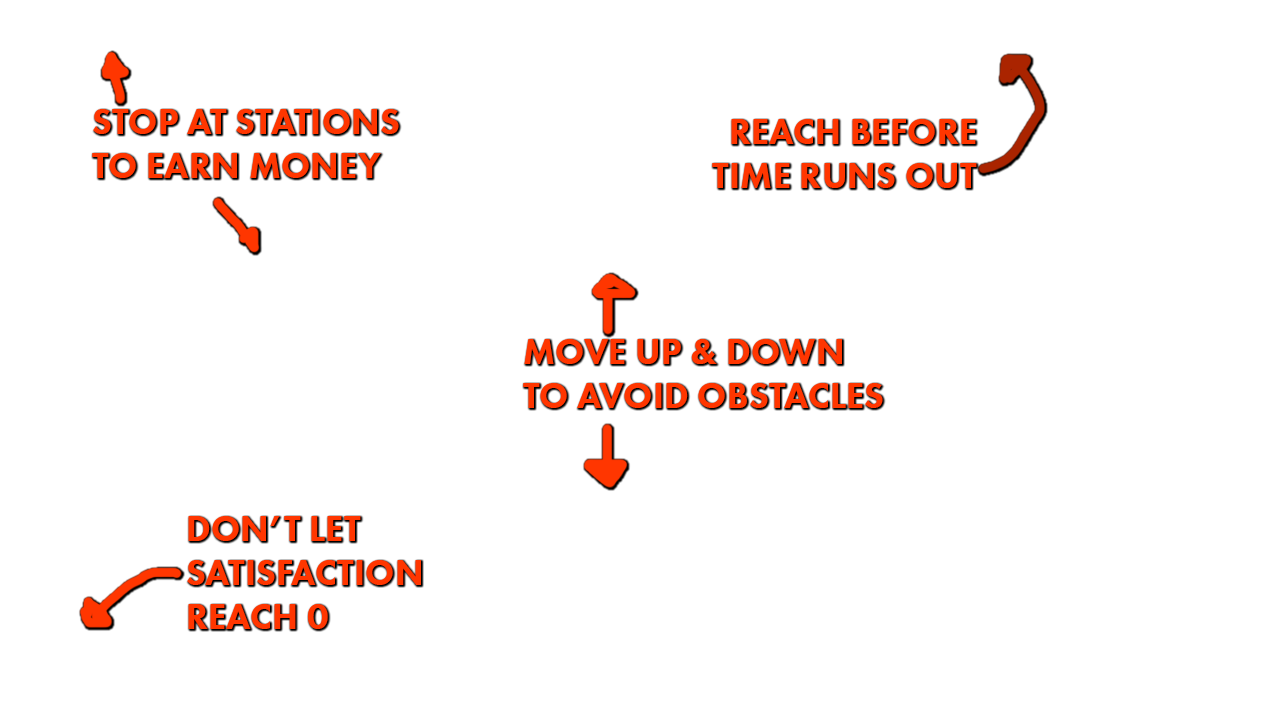
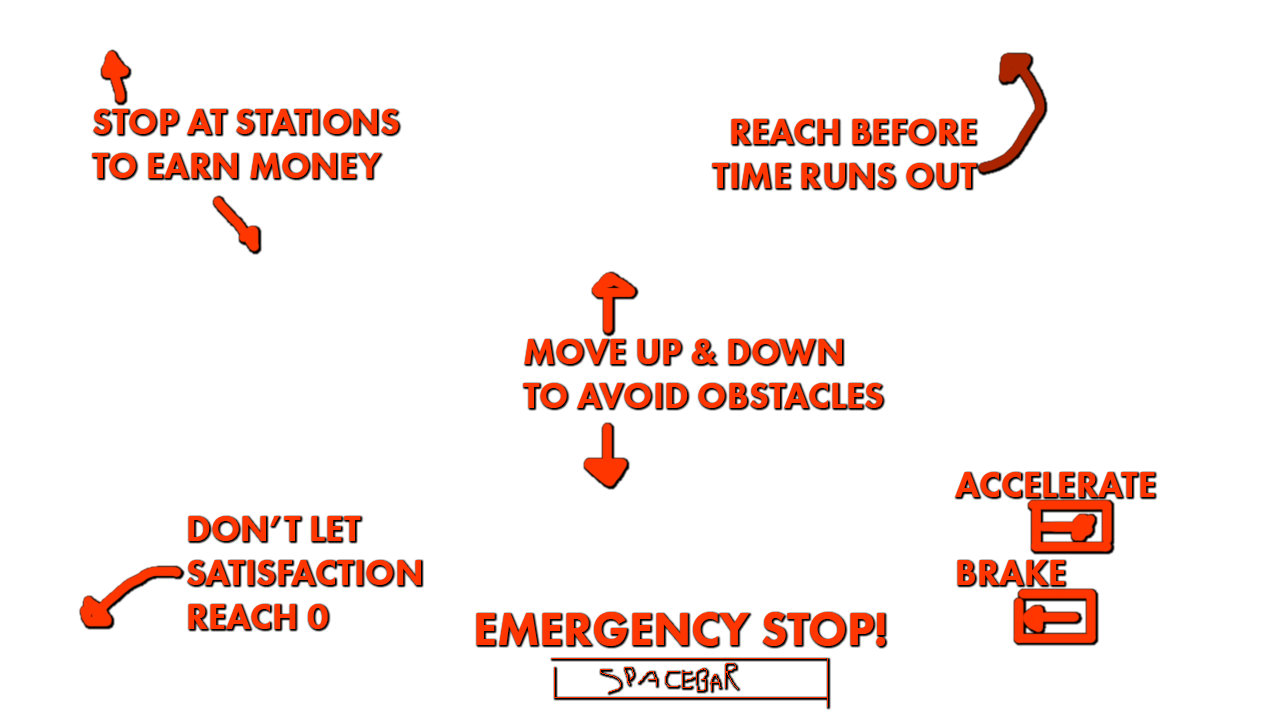
Began balancing and added UI Feedback for missing / damages.

diff --git a/Assets/Scripts/UI/UIManager.cs b/Assets/Scripts/UI/UIManager.cs
@@ -15,6 +15,9 @@ public class UIManager : MonoBehaviour {
 	public LineProgressController lineProgress;
 	public MoneyBoxController moneyBox;
 
+	public GameObject missedStation;
+	public GameObject emergencyStop;
+
 	public GameCompleteController gameComplete;
 
 
@@ -24,6 +27,8 @@ public class UIManager : MonoBehaviour {
 	}
 
 	void Awake(){
+		missedStation.SetActive (false);
+		emergencyStop.SetActive (false);
 		gameOver.SetActive (false);
 	}
 	
@@ -41,5 +46,35 @@ public class UIManager : MonoBehaviour {
 
 	public void CompleteGame(){
 		gameComplete.gameObject.SetActive (true);
+	}
+
+	public void MissStation(){
+		StartCoroutine (showMissedStation ());
+	}
+
+	public void EmergencyStop(){
+		StartCoroutine (showEmergencyStop ());
+	}
+
+	IEnumerator showMissedStation(){
+		missedStation.SetActive (true);
+
+		missedStation.GetComponent<Animator> ().Play ("Screen On Right");
+		yield return new WaitForSeconds (3);
+
+		missedStation.GetComponent<Animator> ().Play ("Screen Off Left");
+		yield return new WaitForSeconds (3);
+		missedStation.SetActive (false);
+	}
+
+	IEnumerator showEmergencyStop(){
+		emergencyStop.SetActive (true);
+
+		emergencyStop.GetComponent<Animator> ().Play ("Screen On Right");
+		yield return new WaitForSeconds (3);
+
+		emergencyStop.GetComponent<Animator> ().Play ("Screen Off Left");
+		yield return new WaitForSeconds (3);
+		emergencyStop.SetActive (false);
 	}
 }

diff --git a/Assets/Scripts/TrainController.cs b/Assets/Scripts/TrainController.cs
@@ -99,6 +99,12 @@ public class TrainController : MonoBehaviour {
 			isStoppedAtStation = false;
 
 			PlayerStats.GetInstance().satisfaction -= Mathf.RoundToInt(passengersToDisembark * 0.5f);
+
+			int stationId = col.gameObject.GetComponent<CreateMyStations> ().id;
+
+			if (stationId != lastStationId && stationId !=1) {
+				UIManager.instance.MissStation ();
+			}
 		}
 	}
 
@@ -182,6 +188,7 @@ public class TrainController : MonoBehaviour {
 
 			currentDeceleration = -(5 * throttleIncrement);
 			throttleSpeed = throttleSpeed + currentDeceleration;
+			UIManager.instance.EmergencyStop ();
 		}
 
 		if (Input.GetKeyUp("up")) {

diff --git a/Assets/Scripts/PlayerStats.cs b/Assets/Scripts/PlayerStats.cs
@@ -71,6 +71,8 @@ public class PlayerStats {
 		gameStartTime = Time.realtimeSinceStartup;
 		satisfaction = 100;
 		playerMoney = 500;
+		TrainController.Instance.passengerCapacity = 350;
+		TrainController.Instance.passengerFull = 200;
 
 	}
 
